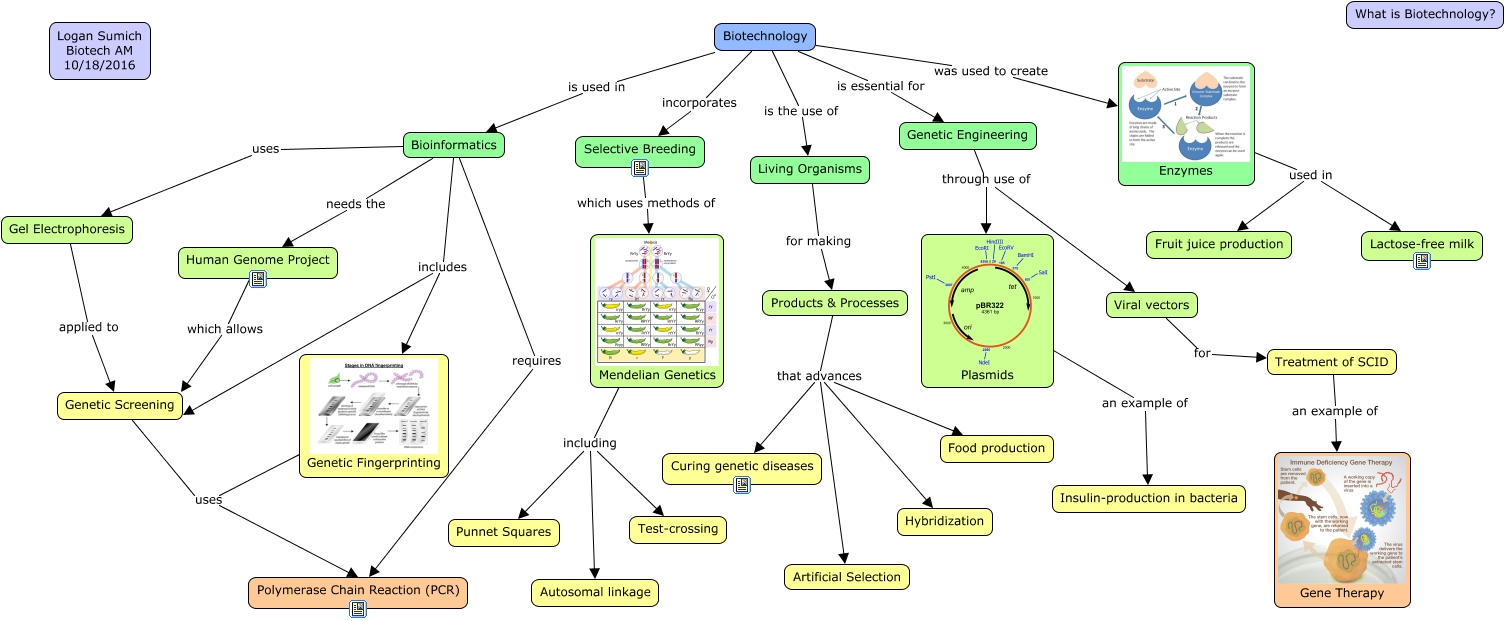
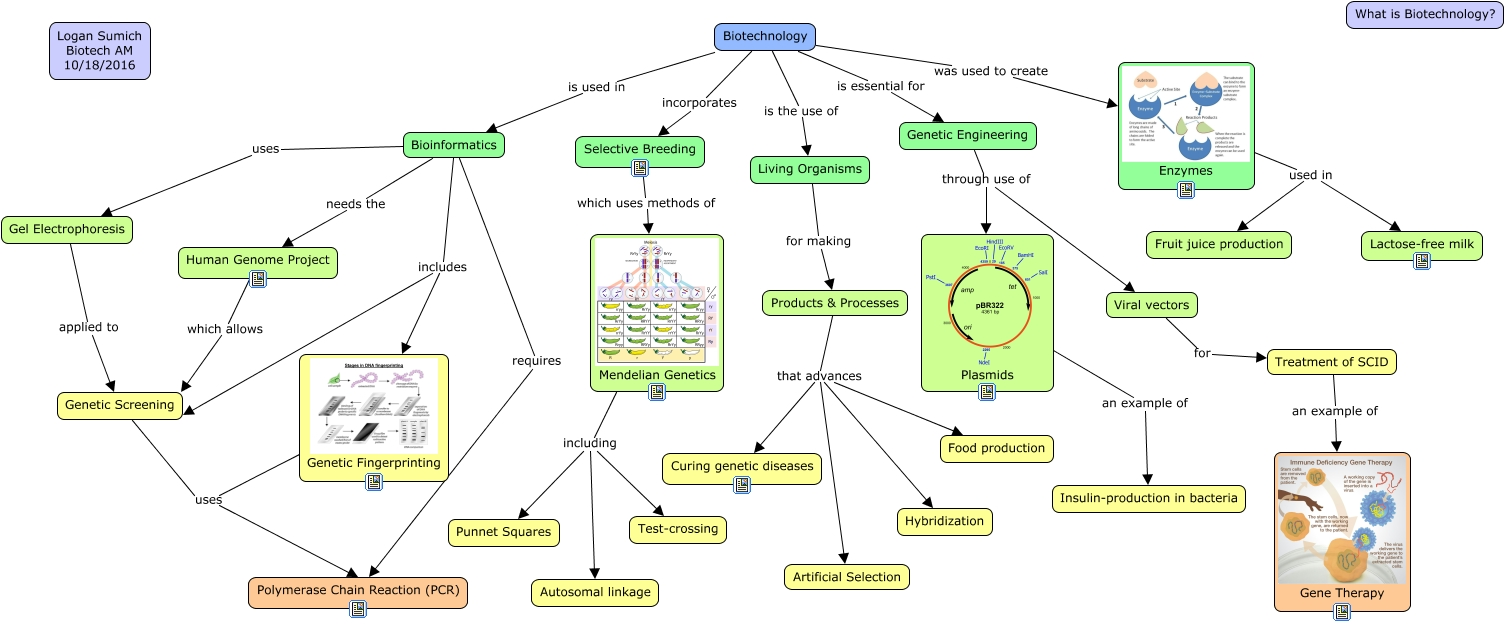
Add files via upload

diff --git a/Chapter-1-Biotechnology/Chapter 1 Biotechnology.html b/Chapter-1-Biotechnology/Chapter 1 Biotechnology.html
@@ -211,13 +211,25 @@ This Concept Map, created with IHMC CmapTools, has information related to: Chapt
 
 <map name="Chapter 1 Biotechnology.html">
   <area shape="rect"
+        href="1QP5XB28SI1653PSKI31QItextIhtml"
+        onClick="popUpEvt(event,'1QP5XB28SI1653PSKI31QItextIhtml'); return false;"
+        coords="978,383,996,401">
+  <area shape="rect"
         href="1QP5Y2WFCI22JP8P8I3PRItextIhtml"
         onClick="popUpEvt(event,'1QP5Y2WFCI22JP8P8I3PRItextIhtml'); return false;"
         coords="733,476,751,494">
   <area shape="rect"
+        href="1QP5W9STHI6NMQRKI26PItextIhtml"
+        onClick="popUpEvt(event,'1QP5W9STHI6NMQRKI26PItextIhtml'); return false;"
+        coords="1177,181,1195,199">
+  <area shape="rect"
         href="1QP5W0DS9I19CT0CNI1RRItextIhtml"
         onClick="popUpEvt(event,'1QP5W0DS9I19CT0CNI1RRItextIhtml'); return false;"
         coords="631,159,649,177">
+  <area shape="rect"
+        href="1QP5VQ7MMI12B995I1GGItextIhtml"
+        onClick="popUpEvt(event,'1QP5VQ7MMI12B995I1GGItextIhtml'); return false;"
+        coords="365,473,383,491">
   <area shape="rect"
         href="1QP5WF79WI1YDQ9S3I2BGItextIhtml"
         onClick="popUpEvt(event,'1QP5WF79WI1YDQ9S3I2BGItextIhtml'); return false;"
@@ -230,6 +242,14 @@ This Concept Map, created with IHMC CmapTools, has information related to: Chapt
         href="1QP5VFSQCI5L5G15I187ItextIhtml"
         onClick="popUpEvt(event,'1QP5VFSQCI5L5G15I187ItextIhtml'); return false;"
         coords="349,600,367,618">
+  <area shape="rect"
+        href="1QP5W33T0I29VS838I1VMItextIhtml"
+        onClick="popUpEvt(event,'1QP5W33T0I29VS838I1VMItextIhtml'); return false;"
+        coords="648,383,666,401">
+  <area shape="rect"
+        href="1QP5WXTM8IGPM47DI2WCItextIhtml"
+        onClick="popUpEvt(event,'1QP5WXTM8IGPM47DI2WCItextIhtml'); return false;"
+        coords="1333,603,1351,621">
 </map>
 
 <center>
@@ -274,6 +294,17 @@ This Concept Map, created with IHMC CmapTools, has information related to: Chapt
 </center>
 </BODY>
 </HTML>
+<div id="1QP5XB28SI1653PSKI31QItextIhtml" style="POSITION: absolute; Z-INDEX: 20; VISIBILITY: hidden; left: 0; top: 0;">
+  <table border=1 cellpadding=1 cellspacing=0 bgcolor="#dddddd">
+    <tr>
+      <td nowrap><font face="Geneva, Arial" size=2>
+      <a href="https://upload.wikimedia.org/wikipedia/commons/thumb/5/5b/PBR322.svg/2000px-PBR322.svg.png "TITLE="">
+      PL
+      </a>
+      </td>
+    </tr>
+  </table>
+</div>
 <div id="1QP5Y2WFCI22JP8P8I3PRItextIhtml" style="POSITION: absolute; Z-INDEX: 20; VISIBILITY: hidden; left: 0; top: 0;">
   <table border=1 cellpadding=1 cellspacing=0 bgcolor="#dddddd">
     <tr>
@@ -285,12 +316,34 @@ This Concept Map, created with IHMC CmapTools, has information related to: Chapt
     </tr>
   </table>
 </div>
+<div id="1QP5W9STHI6NMQRKI26PItextIhtml" style="POSITION: absolute; Z-INDEX: 20; VISIBILITY: hidden; left: 0; top: 0;">
+  <table border=1 cellpadding=1 cellspacing=0 bgcolor="#dddddd">
+    <tr>
+      <td nowrap><font face="Geneva, Arial" size=2>
+      <a href="http://image.slidesharecdn.com/microbiology-131222060924-phpapp01/95/importance-of-enzymes-in-biotechnology-4-638.jpg?cb=1387692696 "TITLE="">
+      EN
+      </a>
+      </td>
+    </tr>
+  </table>
+</div>
 <div id="1QP5W0DS9I19CT0CNI1RRItextIhtml" style="POSITION: absolute; Z-INDEX: 20; VISIBILITY: hidden; left: 0; top: 0;">
   <table border=1 cellpadding=1 cellspacing=0 bgcolor="#dddddd">
     <tr>
       <td nowrap><font face="Geneva, Arial" size=2>
       <a href="http://www.inspection.gc.ca/plants/plants-with-novel-traits/general-public/overview/eng/1337827503752/1337827590597 "TITLE="">
       Selective Breeding
+      </a>
+      </td>
+    </tr>
+  </table>
+</div>
+<div id="1QP5VQ7MMI12B995I1GGItextIhtml" style="POSITION: absolute; Z-INDEX: 20; VISIBILITY: hidden; left: 0; top: 0;">
+  <table border=1 cellpadding=1 cellspacing=0 bgcolor="#dddddd">
+    <tr>
+      <td nowrap><font face="Geneva, Arial" size=2>
+      <a href="http://img.docstoccdn.com/thumb/orig/115701763.png "TITLE="">
+      GF
       </a>
       </td>
     </tr>
@@ -324,6 +377,28 @@ This Concept Map, created with IHMC CmapTools, has information related to: Chapt
       <td nowrap><font face="Geneva, Arial" size=2>
       <a href="https://molecular.roche.com/innovation/pcr/what-is-pcr/ "TITLE="">
       What is PCR
+      </a>
+      </td>
+    </tr>
+  </table>
+</div>
+<div id="1QP5W33T0I29VS838I1VMItextIhtml" style="POSITION: absolute; Z-INDEX: 20; VISIBILITY: hidden; left: 0; top: 0;">
+  <table border=1 cellpadding=1 cellspacing=0 bgcolor="#dddddd">
+    <tr>
+      <td nowrap><font face="Geneva, Arial" size=2>
+      <a href="https://upload.wikimedia.org/wikipedia/commons/thumb/8/8b/Independent_assortment_%26_segregation.svg/2000px-Independent_assortment_%26_segregation.svg.png "TITLE="">
+      MG
+      </a>
+      </td>
+    </tr>
+  </table>
+</div>
+<div id="1QP5WXTM8IGPM47DI2WCItextIhtml" style="POSITION: absolute; Z-INDEX: 20; VISIBILITY: hidden; left: 0; top: 0;">
+  <table border=1 cellpadding=1 cellspacing=0 bgcolor="#dddddd">
+    <tr>
+      <td nowrap><font face="Geneva, Arial" size=2>
+      <a href="http://learn.genetics.utah.edu/content/genetherapy/success/images/2_immune.jpg "TITLE="">
+      GT
       </a>
       </td>
     </tr>
